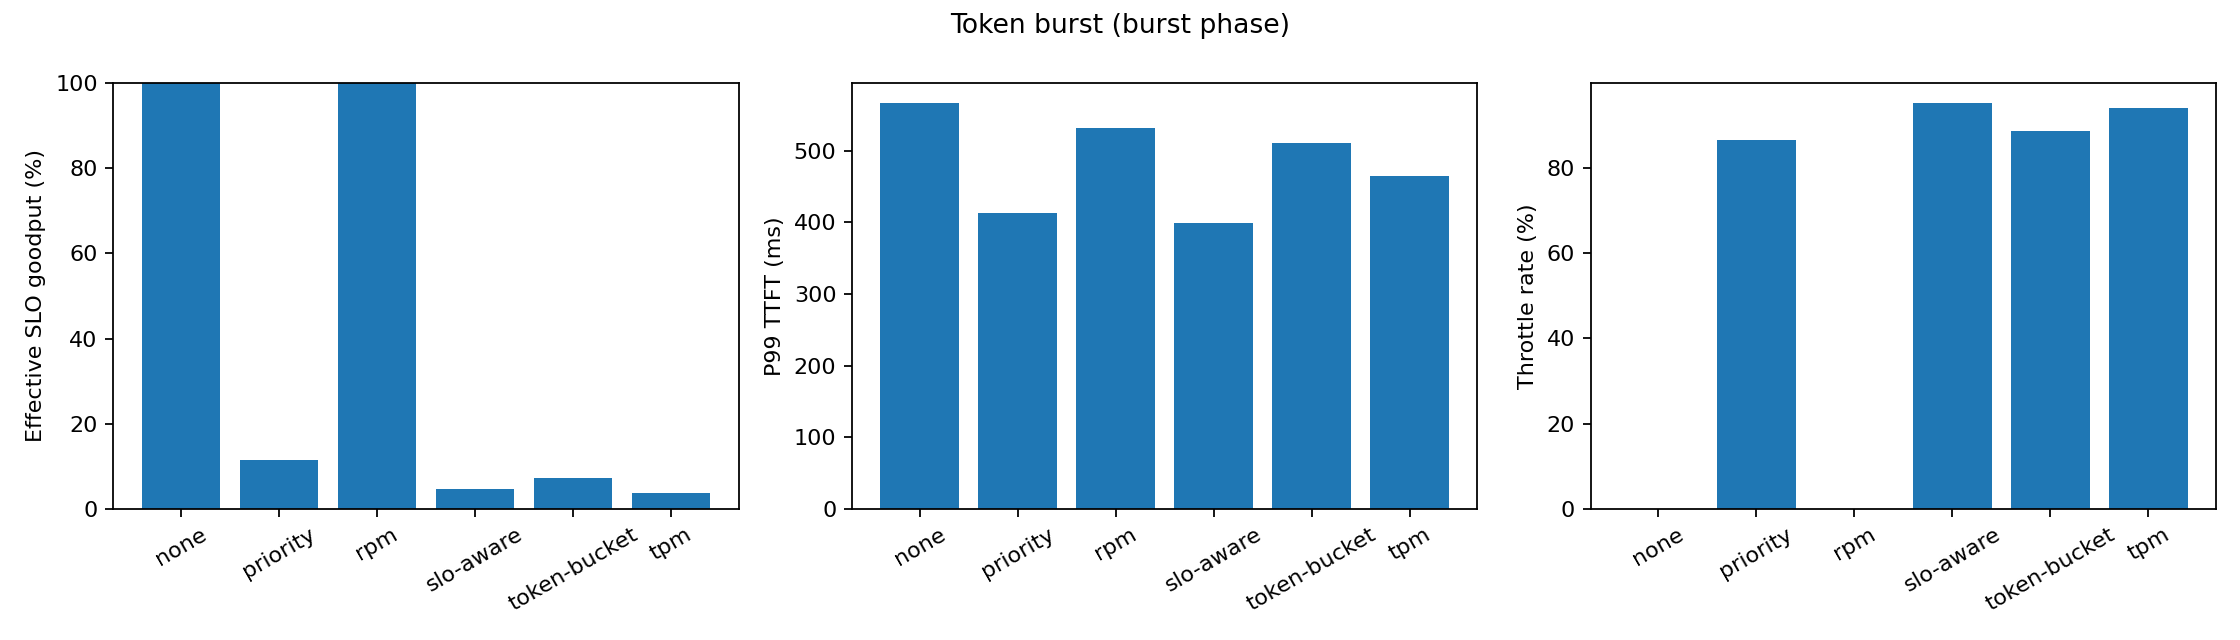
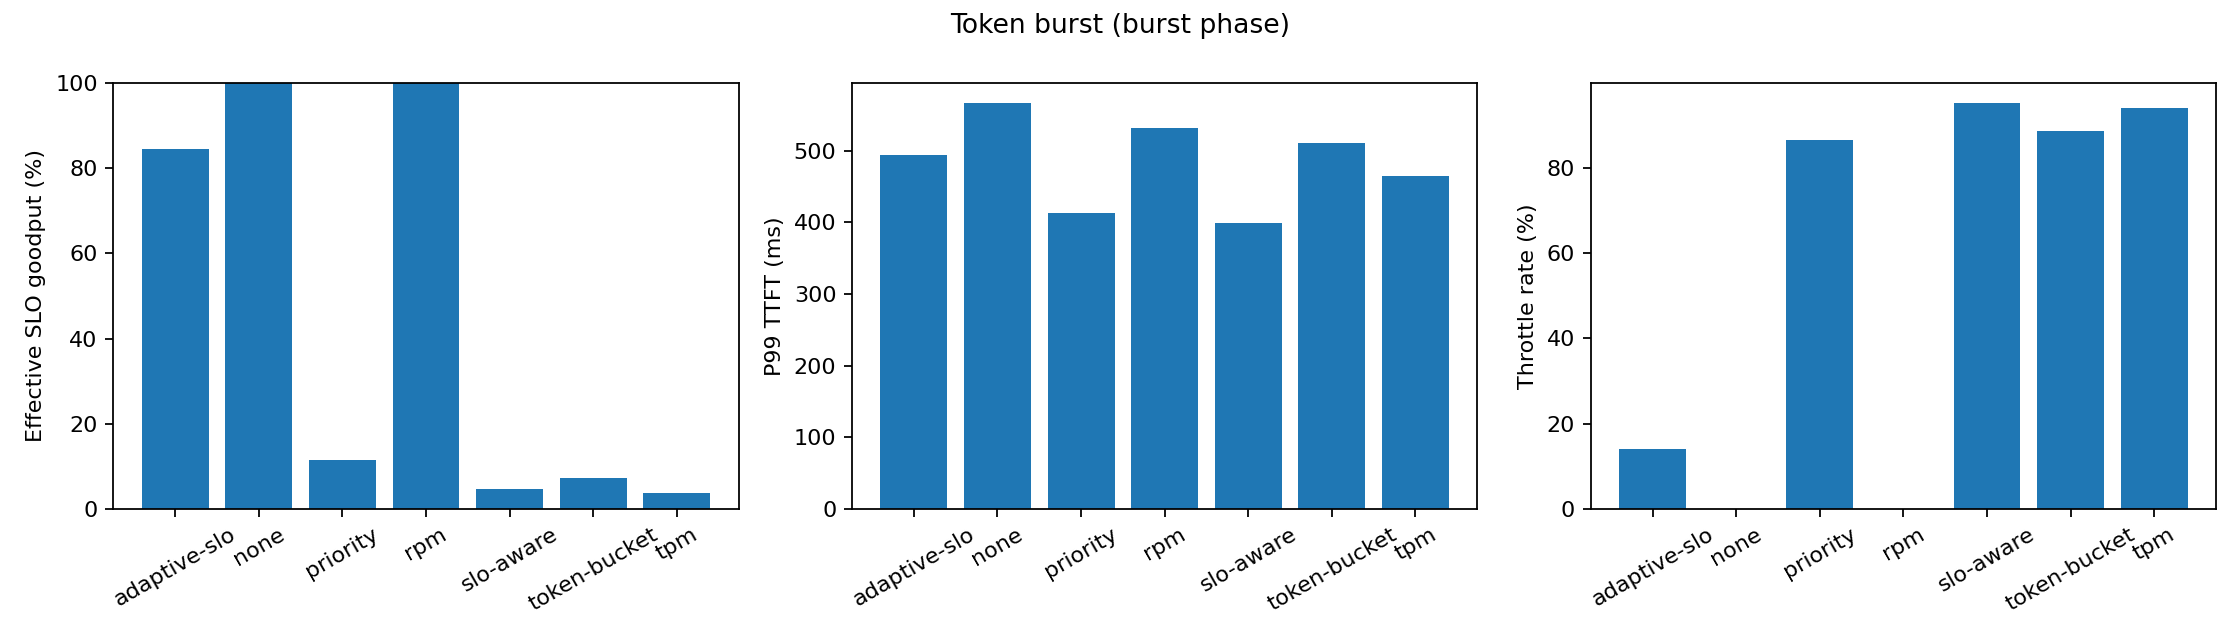
Add adaptive-slo token-burst results and response traces.
Adaptive recovers ~18× burst-phase effective goodput vs static slo-aware with only a moderate P99 increase.

Changed region(s): [[0.7188, 0.1562, 0.9688, 0.9688], [0.375, 0.1562, 0.6562, 0.9375], [0.0312, 0.125, 0.3125, 0.9688]]

diff --git a/analysis/result_paper/token_burst_comparison.md b/analysis/result_paper/token_burst_comparison.md
@@ -1,36 +1,43 @@
 # Token Burst Comparison (5-run frozen selection)
 
-Scenario: `experiments/token_burst.yaml` — fixed ~500 RPM, prompt switches short → long at 180s.  
+Scenario: `experiments/token_burst.yaml` (+ `token_burst_adaptive.yaml` for `adaptive-slo`).  
 Selection: latest run per `(policy, repetition)` for `r1..r5`.
 
 ## Burst-phase results (180–360s) — primary table
 
 | Policy | Admit | Effective goodput | Conditional SLO | P99 TTFT | Throttle |
 |---|---:|---:|---:|---:|---:|
-| `none` | 1.000 ± 0.000 | 1.000 ± 0.000 | 1.000 ± 0.000 | 566 ± 23 ms | 0.000 |
-| `rpm` | 1.000 ± 0.000 | 1.000 ± 0.001 | 1.000 ± 0.001 | 532 ± 15 ms | 0.000 |
-| `tpm` | 0.060 ± 0.008 | 0.037 ± 0.009 | 0.610 ± 0.078 | 465 ± 16 ms | 0.940 |
-| `token-bucket` | 0.113 ± 0.001 | 0.073 ± 0.005 | 0.646 ± 0.045 | 511 ± 30 ms | 0.887 |
-| `priority` | 0.134 ± 0.003 | 0.115 ± 0.010 | 0.855 ± 0.064 | 413 ± 15 ms | 0.866 |
-| `slo-aware` | 0.049 ± 0.005 | 0.046 ± 0.004 | **0.949 ± 0.029** | 398 ± 21 ms | 0.951 |
+| `none` | 1.000 | 1.000 | 1.000 | 566 ms | 0.000 |
+| `rpm` | 1.000 | 1.000 | 1.000 | 532 ms | 0.000 |
+| `tpm` | 0.060 | 0.037 | 0.610 | 465 ms | 0.940 |
+| `token-bucket` | 0.113 | 0.073 | 0.646 | 511 ms | 0.887 |
+| `priority` | 0.134 | 0.115 | 0.855 | 413 ms | 0.866 |
+| `slo-aware` | 0.049 | 0.046 | 0.949 | 398 ms | 0.951 |
+| `adaptive-slo` | **0.860** | **0.844** | 0.982 | 494 ms | 0.140 |
+
+## Adaptive validation (main new claim)
+
+`adaptive-slo` vs static `slo-aware` in the same burst window:
+
+- Effective SLO goodput: **0.844 vs 0.046** (~18×)
+- Admit rate: **0.860 vs 0.049**
+- Conditional SLO among admitted: **0.982 vs 0.949** (retained)
+- P99 TTFT: **494 vs 398 ms** (~24% higher — most of the tail protection trade-off)
+
+Controller evidence (traces in `adaptive_trace_token_burst_r{1,2,3}.png`): under healthy Bedrock (0 provider 429s), policy rejects drive multiplicative `increase-demand` and `C_hat` rises to `c_max` (2M TPM), restoring admit rate without collapsing conditional SLO.
 
 ## Findings supported by data
 
-1. **RPM blindness.** During the token-size burst, `rpm` matches `none`: both keep ~100% admit and ~100% effective goodput. Request-rate limiters do not react to token-size pressure.
-2. **Token-aware shedding.** `tpm`, `token-bucket`, `priority`, and `slo-aware` all shed heavily in burst (~87–95% throttle).
-3. **Conditional SLO vs goodput tradeoff.** Among shedding policies, `slo-aware` admits the fewest requests (~4.9%) but preserves the highest conditional SLO among admitted (~94.9%). `token-bucket` admits more (~11.3%) but conditional SLO among admitted is only ~64.6%.
-4. **Backend still healthy under none/rpm.** On Nova Micro in this workload, `none`/`rpm` remain at ~100% effective goodput during burst — so this experiment demonstrates **policy differentiation under token pressure**, not that uncontrolled traffic already violates SLO.
+1. **RPM blindness.** During the token-size burst, `rpm` matches `none`: both keep ~100% admit / goodput.
+2. **Static token/SLO over-shed.** `tpm` / `token-bucket` / `priority` / `slo-aware` throttle ~87–95% in burst; static `slo-aware` has the lowest goodput among them.
+3. **Adaptive recovers goodput.** AIMD on `C_hat` recovers most of the effective goodput that static SLO-aware leaves on the table, while keeping high conditional SLO and only a moderate P99 increase vs static.
+4. **Backend still healthy under none/rpm.** This remains a policy-differentiation result under token pressure, not a claim that uncontrolled traffic already violates SLO.
 
-## Paper-ready takeaway (honest)
+## Paper-ready takeaway
 
-At constant request rate, a token-size burst exposes overload that RPM-based controls cannot detect. Token-aware admission policies shed load; among them, SLO-aware admission trades lower burst-phase goodput for substantially higher conditional SLO on the requests it does admit.
-
-## Full-run aggregates
-
-See `token_burst_all_policies_summary.md` (includes the short-prompt first half). Prefer burst-phase tables for the main claim.
+At constant request rate, a token-size burst exposes overload that RPM cannot see. Static SLO-aware over-sheds against an elastic Bedrock backend. Adaptive SLO-aware raises `C_hat` when the provider stays healthy, recovering substantially more effective goodput while retaining most of the tail-latency protection.
 
 ## Artifacts
 
-- `token_burst_burst_phase_summary.md` / CSV via `token_burst_policy_summary.csv` (full-run means)
-- `token_burst_policy_summary.png` (burst-phase bars)
-- Selected run IDs listed in the summary markdown files
+- `token_burst_burst_phase_summary.md` / `token_burst_policy_summary.csv` / `.png`
+- `adaptive_trace_token_burst_r{1,2,3}.png`

diff --git a/analysis/result_paper/token_burst_all_policies_summary.md b/analysis/result_paper/token_burst_all_policies_summary.md
@@ -4,6 +4,7 @@ Selection rule: latest run per `(policy, repetition)` for `r1..r5`.
 
 | Policy | Reps | Admit | Conditional SLO | Effective SLO Goodput | P95 TTFT (ms) | P99 TTFT (ms) | Throttle |
 |---|---:|---:|---:|---:|---:|---:|---:|
+| `adaptive-slo` | 5 | 0.936 | 0.992 | 0.928 | 404.8 | 497.2 | 0.064 |
 | `none` | 5 | 1.000 | 1.000 | 1.000 | 451.0 | 550.3 | 0.000 |
 | `priority` | 5 | 0.371 | 0.948 | 0.352 | 353.2 | 421.3 | 0.629 |
 | `rpm` | 5 | 1.000 | 1.000 | 1.000 | 415.2 | 507.4 | 0.000 |
@@ -13,6 +14,7 @@ Selection rule: latest run per `(policy, repetition)` for `r1..r5`.
 
 ## Selected runs
 
+- `adaptive-slo`: r1: token_burst-adaptive-slo-r1-20260820-101852; r2: token_burst-adaptive-slo-r2-20260820-093504; r3: token_burst-adaptive-slo-r3-20260820-094616; r4: token_burst-adaptive-slo-r4-20260820-095629; r5: token_burst-adaptive-slo-r5-20260820-100642
 - `none`: r1: token_burst-none-r1-20260819-204840; r2: token_burst-none-r2-20260819-205738; r3: token_burst-none-r3-20260819-210751; r4: token_burst-none-r4-20260819-212053; r5: token_burst-none-r5-20260819-213121
 - `priority`: r1: token_burst-priority-r1-20260820-001317; r2: token_burst-priority-r2-20260820-002330; r3: token_burst-priority-r3-20260820-003228; r4: token_burst-priority-r4-20260820-004108; r5: token_burst-priority-r5-20260820-005005
 - `rpm`: r1: token_burst-rpm-r1-20260819-214133; r2: token_burst-rpm-r2-20260819-215202; r3: token_burst-rpm-r3-20260819-220315; r4: token_burst-rpm-r4-20260819-221429; r5: token_burst-rpm-r5-20260819-222441

diff --git a/analysis/result_paper/token_burst_burst_phase_summary.md b/analysis/result_paper/token_burst_burst_phase_summary.md
@@ -5,6 +5,7 @@ Selection rule: latest run per `(policy, repetition)` for `r1..r5`.
 
 | Policy | Reps | Admit | Conditional SLO | Effective SLO Goodput | P95 TTFT (ms) | P99 TTFT (ms) | Throttle |
 |---|---:|---:|---:|---:|---:|---:|---:|
+| `adaptive-slo` | 5 | 0.860 | 0.982 | 0.844 | 413.4 | 494.0 | 0.140 |
 | `none` | 5 | 1.000 | 1.000 | 1.000 | 464.7 | 566.1 | 0.000 |
 | `priority` | 5 | 0.134 | 0.855 | 0.115 | 378.5 | 413.1 | 0.866 |
 | `rpm` | 5 | 1.000 | 1.000 | 1.000 | 426.5 | 532.1 | 0.000 |
@@ -14,6 +15,7 @@ Selection rule: latest run per `(policy, repetition)` for `r1..r5`.
 
 ## Selected runs
 
+- `adaptive-slo`: r1: token_burst-adaptive-slo-r1-20260820-101852; r2: token_burst-adaptive-slo-r2-20260820-093504; r3: token_burst-adaptive-slo-r3-20260820-094616; r4: token_burst-adaptive-slo-r4-20260820-095629; r5: token_burst-adaptive-slo-r5-20260820-100642
 - `none`: r1: token_burst-none-r1-20260819-204840; r2: token_burst-none-r2-20260819-205738; r3: token_burst-none-r3-20260819-210751; r4: token_burst-none-r4-20260819-212053; r5: token_burst-none-r5-20260819-213121
 - `priority`: r1: token_burst-priority-r1-20260820-001317; r2: token_burst-priority-r2-20260820-002330; r3: token_burst-priority-r3-20260820-003228; r4: token_burst-priority-r4-20260820-004108; r5: token_burst-priority-r5-20260820-005005
 - `rpm`: r1: token_burst-rpm-r1-20260819-214133; r2: token_burst-rpm-r2-20260819-215202; r3: token_burst-rpm-r3-20260819-220315; r4: token_burst-rpm-r4-20260819-221429; r5: token_burst-rpm-r5-20260819-222441
